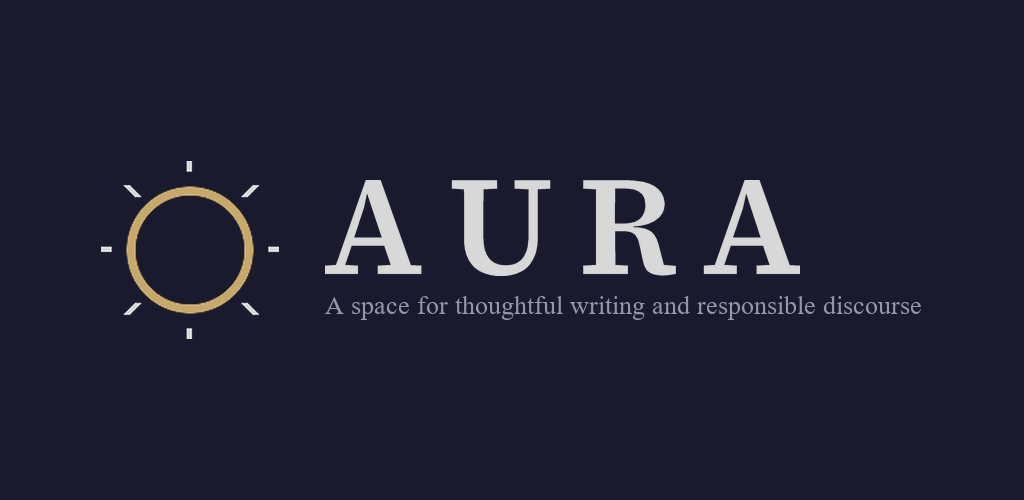
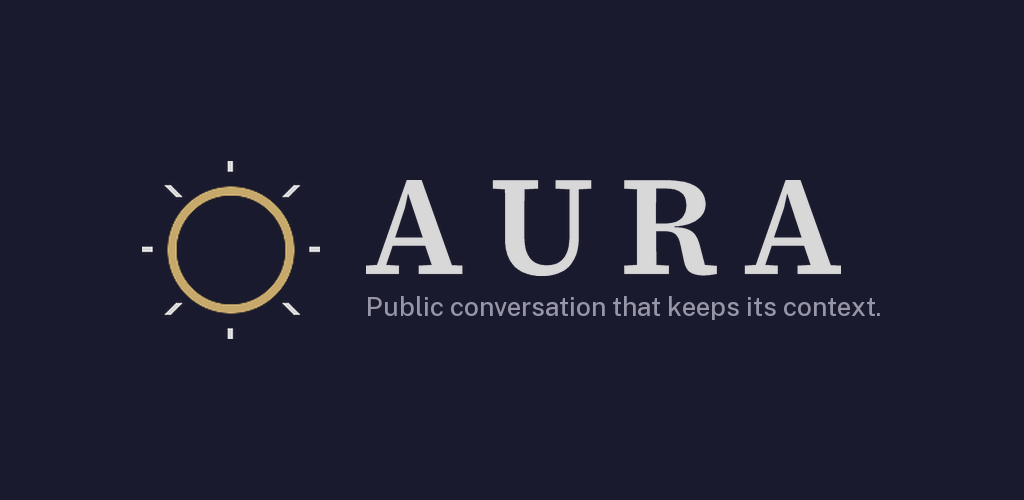
Feature graphic says what Aura is, in Aura's own type
The Play feature graphic's tagline read "A space for thoughtful writing and
responsible discourse": a writing space, not Aura, set in Times New Roman
from the system font folder. It is now the public home page's headline,
read from public_home_copy.dart so the two cannot drift: "Public
conversation that keeps its context." It is set in Public Sans from
assets/fonts, so no installed font is needed. Regenerated with the
Source Serif wordmark (DD-64). Full suite 3,696 passed.

Claude-Session: https://claude.ai/code/session_01BBacmDKTSEKY5qq7TeMhFo

diff --git a/tool/generate_feature_graphic.py b/tool/generate_feature_graphic.py
@@ -18,9 +18,11 @@ NOTHING HERE INVENTS IDENTITY
     fallback face on any machine without it, and is not reproducible off
     Windows at all.
 
-Only the tagline still needs an installed face. That is marketing copy rather
-than identity, so a fallback chain is acceptable -- but it fails loudly rather
-than silently substituting something else.
+  * the tagline is the public home page's own headline, read from
+    lib/features/home/presentation/public_home_copy.dart (2026-10-25: the old
+    line, "A space for thoughtful writing and responsible discourse", described
+    a writing space, not Aura), set in Aura's text face Public Sans from
+    assets/fonts -- no installed system font is needed any more.
 """
 from __future__ import annotations
 
@@ -35,14 +37,16 @@ MARK = ROOT / 'assets/store/android/adaptive_foreground.png'
 OUT = ROOT / 'assets/store/android/feature_graphic_1024x500.png'
 
 WIDTH, HEIGHT = 1024, 500
-TAGLINE = 'A space for thoughtful writing and responsible discourse'
+HOME_COPY = ROOT / 'lib/features/home/presentation/public_home_copy.dart'
+TAGLINE_FONT = ROOT / 'assets/fonts/PublicSans-500.ttf'
 
-SERIF_CANDIDATES = [
-    'C:/Windows/Fonts/times.ttf',
-    '/usr/share/fonts/truetype/liberation/LiberationSerif-Regular.ttf',
-    '/usr/share/fonts/truetype/dejavu/DejaVuSerif.ttf',
-    '/System/Library/Fonts/Supplemental/Times New Roman.ttf',
-]
+
+def tagline() -> str:
+    m = re.search(r"publicHomeHeadline\s*=\s*'([^']+)'",
+                  HOME_COPY.read_text(encoding='utf-8'))
+    if not m:
+        raise SystemExit('publicHomeHeadline not found in public_home_copy.dart')
+    return m.group(1)
 
 MARK_HEIGHT = 178
 WORDMARK_HEIGHT = 96
@@ -138,13 +142,8 @@ def mark_image(target_height: int) -> Image.Image:
     return mark.resize((round(mark.width * scale), target_height), Image.LANCZOS)
 
 
-def serif(size: int) -> ImageFont.FreeTypeFont:
-    for path in SERIF_CANDIDATES:
-        if pathlib.Path(path).exists():
-            return ImageFont.truetype(path, size)
-    raise SystemExit(
-        'no serif face found for the tagline; add one to SERIF_CANDIDATES '
-        'rather than letting the poster fall back to a different face')
+def tagline_font(size: int) -> ImageFont.FreeTypeFont:
+    return ImageFont.truetype(str(TAGLINE_FONT), size)
 
 
 def main() -> None:
@@ -156,7 +155,8 @@ def main() -> None:
 
     mark = mark_image(MARK_HEIGHT)
     word = render_wordmark(polys, WORDMARK_HEIGHT, tokens['wordmark'])
-    tag_font = serif(TAG_SIZE)
+    tag_font = tagline_font(TAG_SIZE)
+    TAGLINE = tagline()
 
     g_box = draw.textbbox((0, 0), TAGLINE, font=tag_font)
     g_w, g_h = g_box[2] - g_box[0], g_box[3] - g_box[1]
